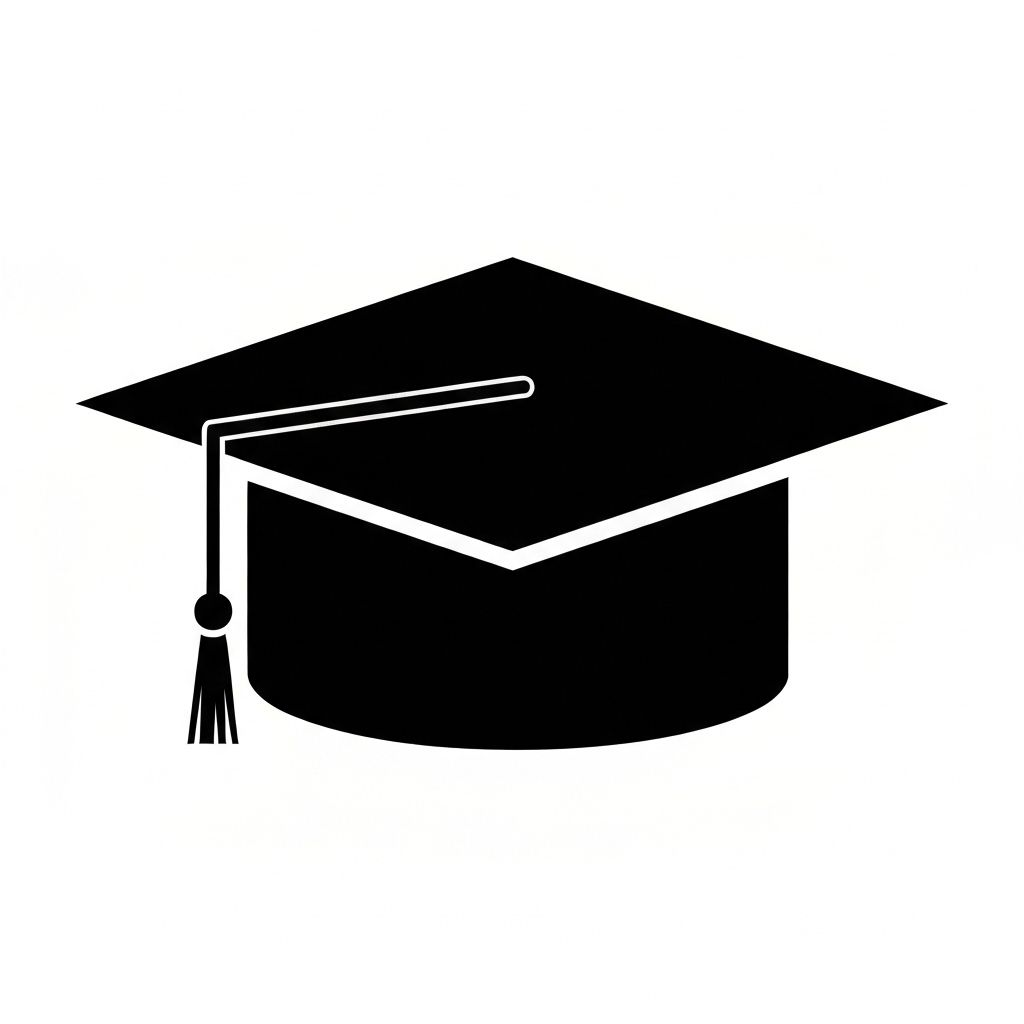
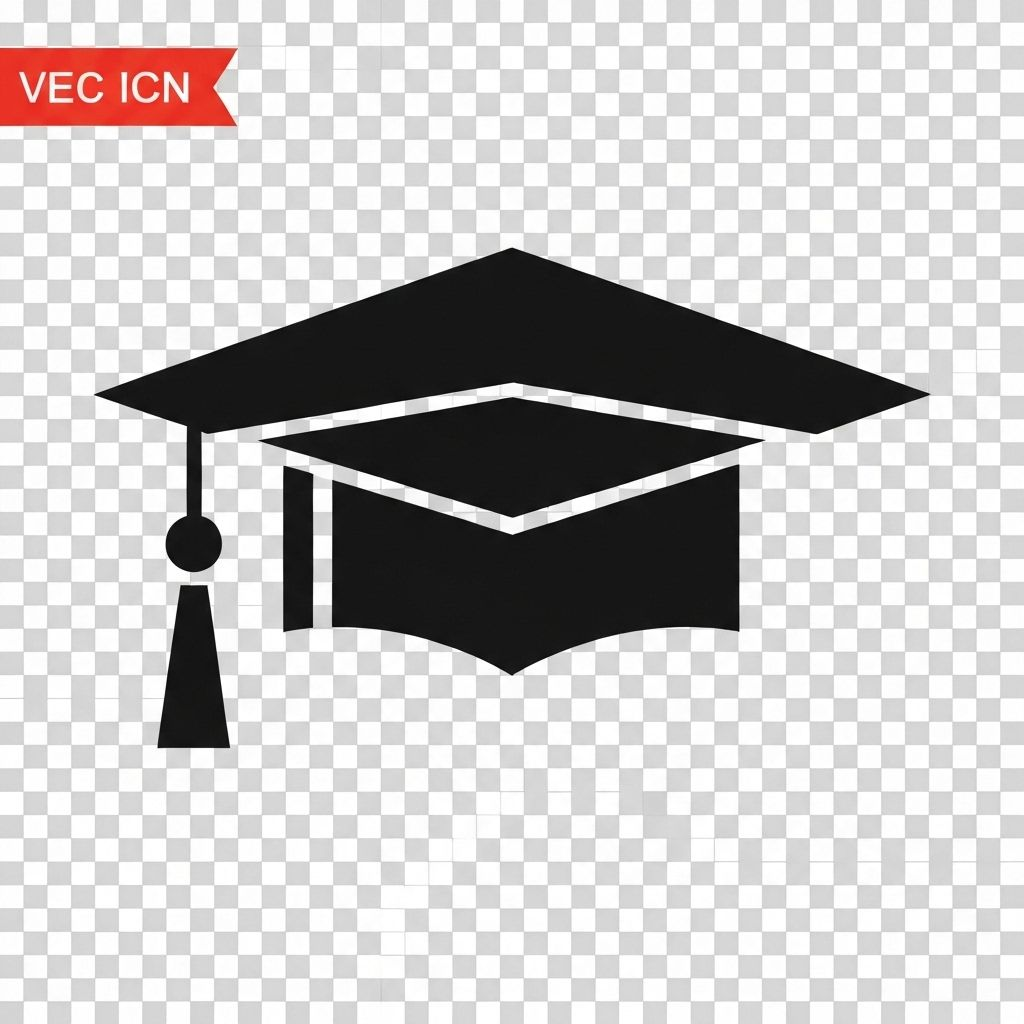
animationErrorsFixed

diff --git a/app/configurar/page.tsx b/app/configurar/page.tsx
@@ -112,12 +112,12 @@ export default function ConfigurarPage() {
     for (let i = 0; i < numberOfCaps; i++) {
       setTimeout(() => {
         const cap = document.createElement("img")
-        cap.src = "/sombrero.jpg"
+        cap.src = "/sombrero.png"
         cap.style.position = "fixed"
-        cap.style.width = "50px"
-        cap.style.height = "50px"
+        cap.style.width = "100px"
+        cap.style.height = "100px"
         cap.style.left = `${Math.random() * 100}vw`
-        cap.style.bottom = "-60px"
+        cap.style.bottom = "-120px"
         cap.style.zIndex = "9999"
         cap.style.pointerEvents = "none"
         cap.style.objectFit = "contain"
